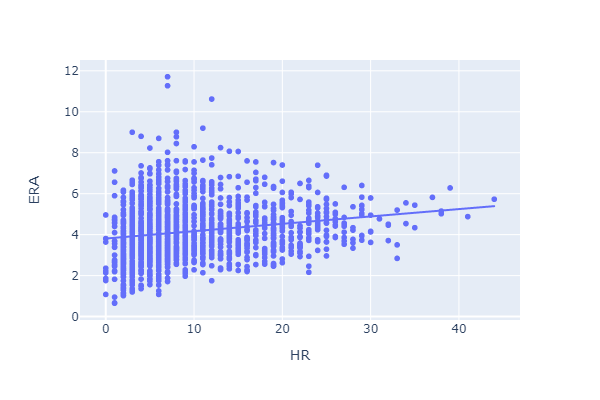
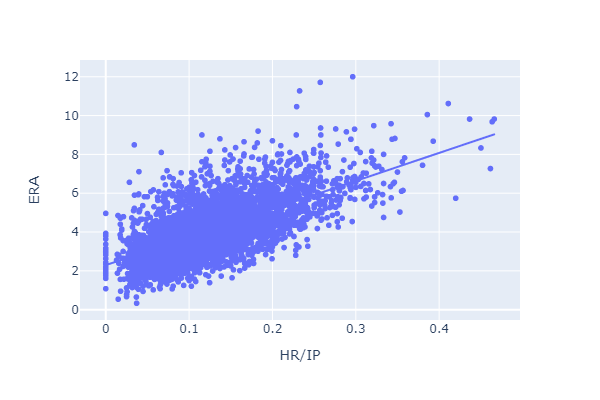
improved formatting

diff --git a/_posts/2024-02-25-fip.md b/_posts/2024-02-25-fip.md
@@ -8,17 +8,18 @@ comments: []
 
 ---
 
-If you're a baseball fan, you'll probably have come across a stat called FIP or [Fielding Independent Pitching](https://library.fangraphs.com/pitching/fip/). 
-As I understand it, FIP is designed to track a pitcher's peformance in a way that doesn't depend on fielders or on which balls happen to fall between them or get caught.
-Because it removes these factors that are outside of a pitcher's control, FIP is also said to me more stable year-to-year and to be a better measure of a pitcher's skill.
+If you're a baseball fan, you'll probably have come across a stat called **FIP** or [Fielding Independent Pitching](https://library.fangraphs.com/pitching/fip/). 
+As I understand it, **FIP** is designed to track a pitcher's peformance in a way that doesn't depend on fielders or on which balls happen to fall between them or get caught.
+Because it removes these factors that are outside of a pitcher's control, **FIP** is also said to me more stable year-to-year and to be a better measure of a pitcher's skill.
 
 I believe the theory behind this comes from [earlier work](https://www.baseballprospectus.com/news/article/878/pitching-and-defense-how-much-control-do-hurlers-have/) showing that pitchers don't have much control over the fraction of balls put in play that fall for hits.
-This value is sometimes called BABIP or Batting Average on Balls In Play.
-By diminishing the luck-based effects of BABIP, one can build a pitching statistic that's more indicative of a pitcher's true ability.
+This conflicts with some baseball common sense ideas like "pitching to contact", but let's leave that aside for now.
+The fraction of balls in play that become hits is sometimes called **BABIP** or Batting Average on Balls In Play.
+By diminishing the luck-based effects of **BABIP**, one can build a pitching statistic that's more indicative of a pitcher's true ability.
 That's the idea.
 
-To accomplish this goal, FIP is based on results that pitchers have the most control over: home runs, strikeouts, walks, and hit by pitch.
-Also, it's constructed to have a similar scale to ERA to make it familiar to fans.
+To accomplish this goal, **FIP** is based on results that pitchers have the most control over: home runs, strikeouts, walks, and hit by pitch.
+Also, it's constructed to have a similar scale to **ERA** to make it familiar to fans.
 Until recently, that was about all I knew. 
 
 It's easy to find a formula online:
@@ -27,16 +28,16 @@ $$\mathrm{FIP} = \frac{13{\mathrm{HR}} + 3(\mathrm{BB} + \mathrm{HBP}) - 2\mathr
 
 where \\(\mathrm{HR}\\), \\(\mathrm{BB}\\), \\(\mathrm{HBP}\\), \\(\mathrm{SO}\\), and \\(\mathrm{IP}\\) are the number of home runs, walks, hit by pitch, strike outs, and innings pitched collected by the pitcher, respectively.
 \\(C_{\mathrm{FIP}}\\) is a constant which varies year by year and is apparently usually around three.
-The constant brings FIP into the same range as ERA.
+The constant brings **FIP** into the same range as **ERA**.
 
 But where do the 13, 3, -2, and constant come from though?
 This is a bit harder to find.
 
-In this post, I'll derive a version of FIP in a way that makes sense to me.
+In this post, I'll derive a version of **FIP** in a way that makes sense to me.
 I'll touch on this at the end, but I don't think this is the way it's actually done.
 
-My method is simple: I trained a linear regression model to predict a pitcher's ERA based on \\(\mathrm{HR}\\), \\(\mathrm{BB} + \mathrm{HBP}\\) and \\(\mathrm{SO}\\).
-FIP is just a linear combination of those parameters, so it will be easy to compare the trained parameters of the linear model with the real formula.
+My method is simple: I trained a linear regression model to predict a pitcher's **ERA** based on \\(\mathrm{HR}\\), \\(\mathrm{BB} + \mathrm{HBP}\\) and \\(\mathrm{SO}\\).
+**FIP** is just a linear combination of those parameters, so it will be easy to compare the trained parameters of the linear model with the real formula.
 <!-- To distinguish it from the normal version, I'll call it FIFIP or FIP Indpenendent Fielding Independent Pitching. -->
 
 
@@ -44,13 +45,13 @@ FIP is just a linear combination of those parameters, so it will be easy to comp
 
 I used [pybaseball]((https://github.com/jldbc/pybaseball)) to download full season pitching data from 2015 to 2023.
 
-The relationships between the fields are as you'd expect.
+The relationships between the raw statistics are as you'd expect.
 For example, here's ERA plotted against HR and SO:
 ![Home Run Fly Ball Relationship](/assets/img/2024/02/hr_era.png){: .center width="80%"}
-Home runs have a positive relationship with ERA.
+Home runs allowed per inning pitched has a positive relationship with ERA.
 
 ![Strikeout Fly Ball Relationship](/assets/img/2024/02/so_era.png){: .center width="80%"}
-Strikeouts have a negative relationship with ERA.
+Strikeouts per inning has a negative relationship with ERA.
 
 Training a linear model is pretty easy:
 ```python
@@ -72,7 +73,7 @@ Two things to point out here:
 1. I excluded pitchers with less than 25 innings pitched using the `qual` kwarg in the `pitching_stats()` call.
 2. I weighted the samples based on innings pitched using `sample_weight`.
 
-The relationship between ERA and FIP looks reasonable:
+The relationship between **ERA** and **FIP** looks reasonable:
 
 ![ERA FIP relationship](/assets/img/2024/02/era_fip.png){: .center width="80%"}
 
@@ -81,7 +82,7 @@ Here are the fitted parameters:
 fip_reg.coef_, fip_reg.intercept_
 > (array([13.28482645,  3.2804091 , -1.78295967]), 2.8140810888761045)
 ```
-So my version of FIP is
+So my version of **FIP** is
 
 $$\mathrm{FIP} = \frac{13.3{\mathrm{HR}} + 3.3(\mathrm{BB} + \mathrm{HBP}) - 1.8\mathrm{SO}}{\mathrm{IP}} + 2.8$$
 
@@ -90,9 +91,10 @@ vs the regular version
 $$\mathrm{FIP} = \frac{13{\mathrm{HR}} + 3(\mathrm{BB} + \mathrm{HBP}) - 2\mathrm{SO}}{\mathrm{IP}} + ~3$$
 
 Maybe this is silly, but I was a little shocked at how closely they align.
+If you round my coefficients to the nearest whole number, the equations are identical.
 
 ## Does FIP work?
-If FIP works as intended, it should have more year-to-year predictive power than ERA.
+If **FIP** works as intended, it should have more year-to-year predictive power than ERA.
 I calculated the correlation between ERA in one year and ERA in the next year with the correlation between FIP in one year and ERA in the next year.
 I'm comparing
 
@@ -102,14 +104,15 @@ with
 
 $$\mathrm{corr}\left(\mathrm{FIP}_i, \mathrm{ERA}_{i+1}\right)$$
 
-Based on year to year correlations from 2015 to 2023, FIP does seem to have better year-to-year predictive power.
+Based on year to year correlations from 2015 to 2023, **FIP** does seem to have better year-to-year predictive power.
+The plot below shows a 1D scatter plot of the year-to-next-year correlations from 2015 to 2023.
 ![Correlations](/assets/img/2024/02/correlations.png){: .center width="80%"}
 
 ## xFIP
-If you've seen FIP, you may also have come across a related stat called xFIP (the x stands for "expected").
+If you've seen **FIP**, you may also have come across a related stat called **xFIP** (the x stands for "expected").
 It's based on a familiar observation.
 Just like pitchers seem to not have much control over BABIP, they also don't seem to have much control over their home run to fly ball ratio.
-xFIP is just like FIP except that it replaces the player's actual home run total with an expected home run total by replacing their home run to fly ball ratio with the league average ratio:
+**xFIP** is just like **FIP** except that it replaces the player's actual home run total with an expected home run total by replacing their home run to fly ball ratio with the league average ratio:
 
 $$\mathrm{HR} = \mathrm{FB} \left(\mathrm{HR}/\mathrm{FB}\right)$$
 
@@ -118,7 +121,7 @@ with
 $$\mathrm{xHR} = \mathrm{FB} \left(\overline{\mathrm{HR}/\mathrm{FB}}_{\mathrm{league}} \right)$$
 
 This has always felt a little strange to me.
-Now xFIP is back to being dependent on fielders and the luck of precisely where balls land.
+Now **xFIP** is back to being dependent on fielders and the luck of precisely where balls land.
 
 It's simple to implement:
 ```python
@@ -130,18 +133,18 @@ y = logs["ERA"]
 weight = logs["IP"]
 xfip_reg = LinearRegression().fit(X, y, sample_weight=weight)
 ```
-The relationship between (same year) xFIP and ERA seems worse than that between FIP and ERA:
+The relationship between (same year) **xFIP** and **ERA** seems worse than that between **FIP** and **ERA**:
 ![ERA FIP relationship](/assets/img/2024/02/era_xfip.png){: .center width="80%"}
 
 ## Does xFIP work?
-I repeated the above experiments to look at xFIP's predictive power.
-![Correlations](/assets/img/2024/02/correlations.png){: .center width="80%"}
-xFIP seems to have somewhat more predictive power than FIP or ERA.
+I repeated the above experiments to look at **xFIP**'s predictive power.
+![Correlations](/assets/img/2024/02/correlations_2.png){: .center width="80%"}
+**xFIP** seems to have somewhat more predictive power than **FIP** or **ERA**.
 
 ## How similar is this to real FIP?
 
-At time of writing, I haven't found a satisfying derivation of the FIP equation.
+At time of writing, I haven't found a satisfying derivation of the **FIP** equation.
 As best I can tell, the coefficients are derived from a type of run value estimate of each possible plate appearance outcome called _linear weights_.
 That topic probably deserves a post of its own.
-However, my method found an equation that's very similar to the real FIP equation, so maybe it doesn't matter how it was originally calculated.
+However, my method found an equation that's very similar to the real **FIP** equation, so maybe it doesn't matter how it was originally calculated.
 If two different methods arrive at the same answer, that ought to give us extra confidence in the result.
